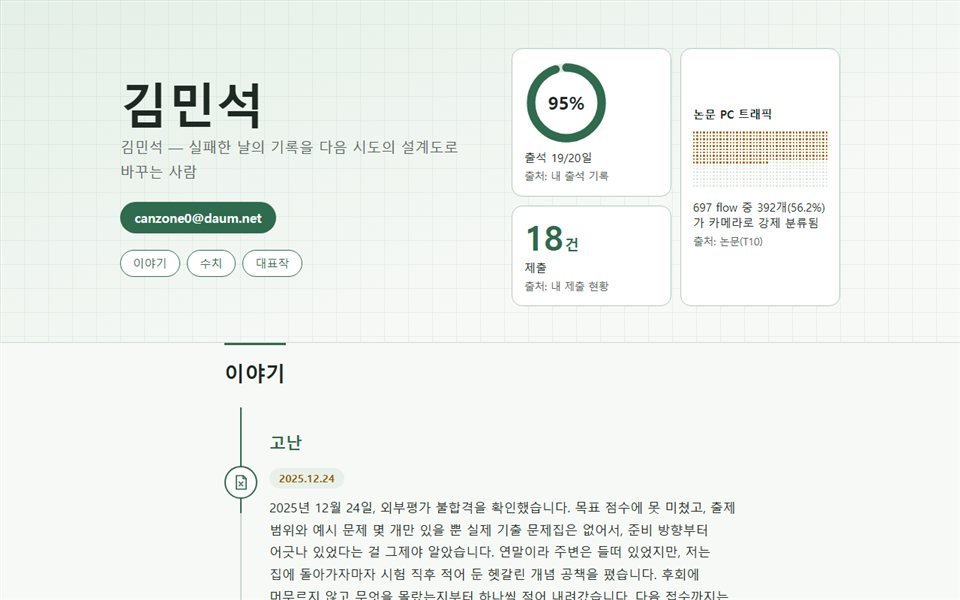
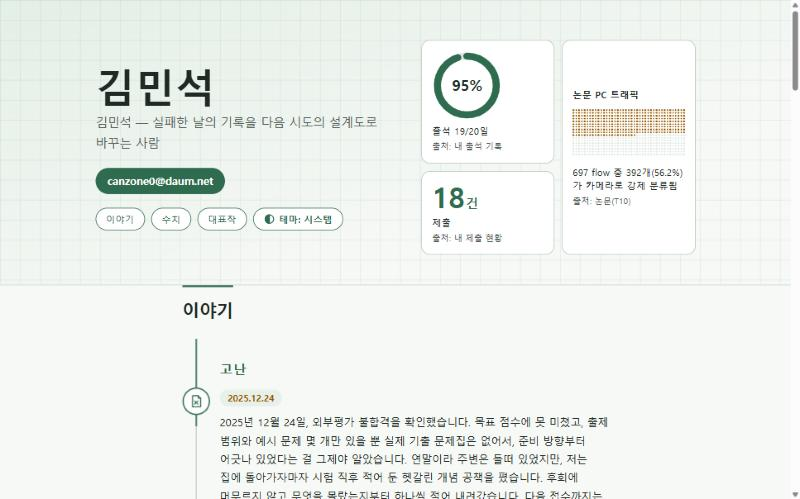
docs: README 첫 화면 스크린샷을 테마 버튼이 보이는 최신 화면으로 교체

diff --git a/README.md b/README.md
@@ -4,7 +4,7 @@
 
 **[라이브 데모](https://kms-portfolio-site.vercel.app/)** · [자동 갱신 프로그램 상세](updater/README.md)
 
-![포트폴리오 첫 화면: 이름과 한 줄 소개, 출석 95%·제출 18건·논문 PC 트래픽 수치 카드, 이야기 타임라인의 시작](docs/images/site-home.jpg)
+![포트폴리오 첫 화면: 이름과 한 줄 소개, 테마 버튼이 있는 메뉴, 출석 95%·제출 18건·논문 PC 트래픽 수치 카드, 이야기 타임라인의 시작](docs/images/site-home.jpg)
 
 ## 목차
 [주요 기능](#주요-기능) · [기술 스택](#기술-스택) · [빠른 시작](#빠른-시작) · [자동 갱신 흐름](#자동-갱신-흐름) · [프로젝트 구조](#프로젝트-구조) · [설계 결정과 배운 점](#설계-결정과-배운-점) · [한계와 다음 할 일](#한계와-다음-할-일) · [연락](#연락)
